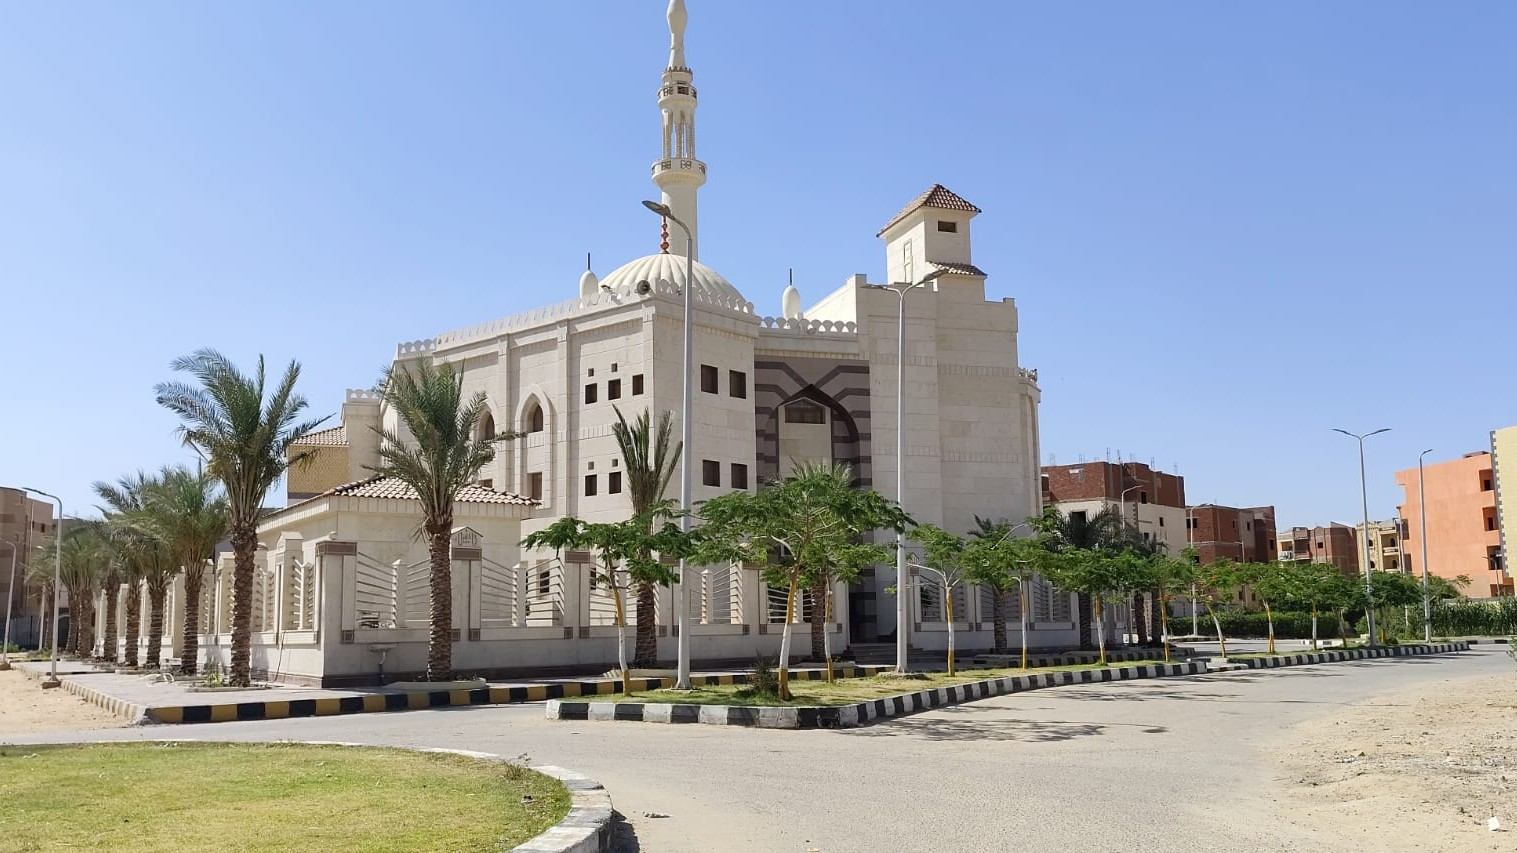
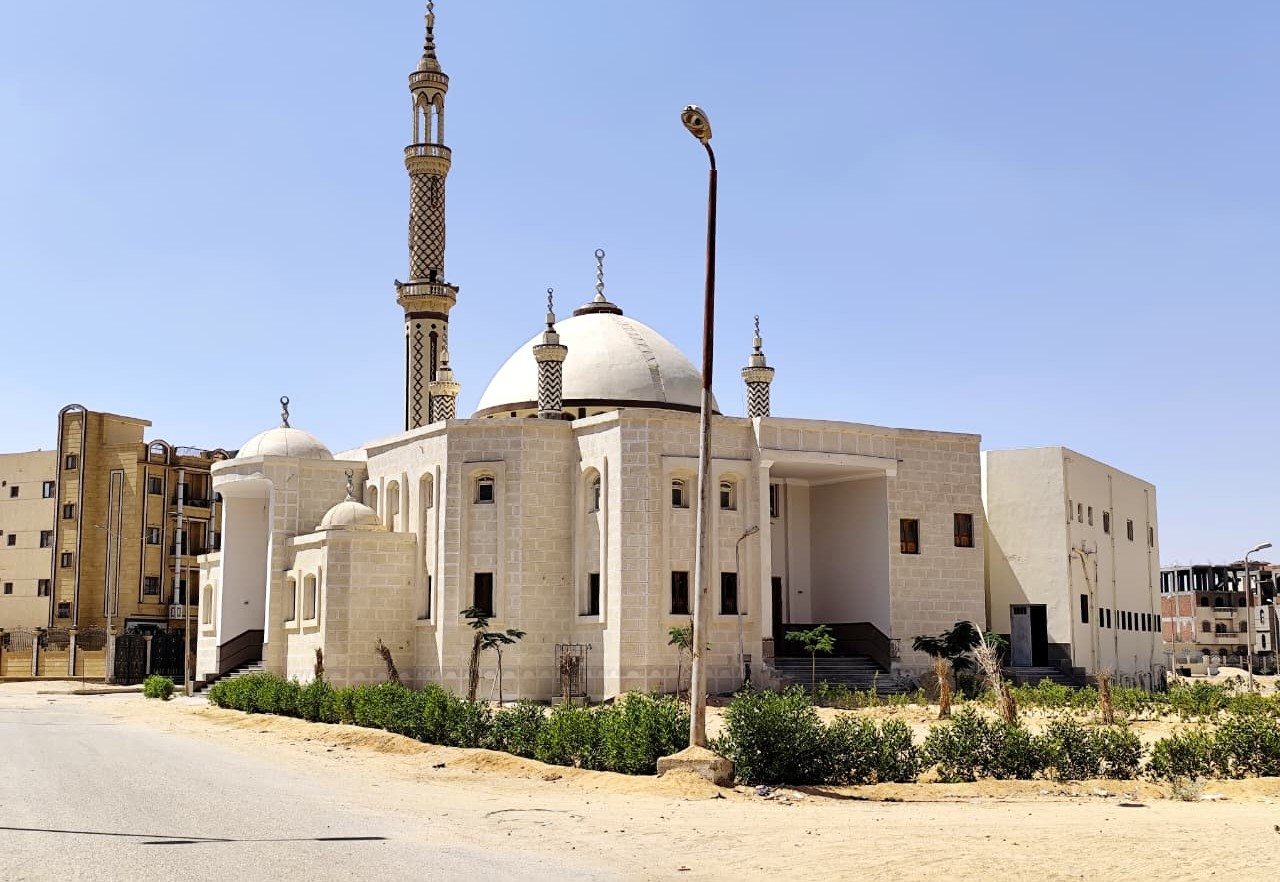
Update location details and map link for accuracy and clarity

diff --git a/index.html b/index.html
@@ -118,13 +118,13 @@
 
       <section class="chapter" data-chapter>
         <div class="chapter-card location-image-card">
-          <img src="masjid_elrahman.jpeg" alt="مسجد ليلة القدر" class="location-image" />
+          <img src="masjid_elrahman.jpeg" alt="مسجد الرحمن الرحيم" class="location-image" />
           <div class="location-overlay"></div>
           <div class="location-content">
             <span class="chapter-no">الفصل 04</span>
             <h2>العنوان</h2>
-            <p>مسجد الرحمن - مجاورة 85 العاشر من رمضان</p>
-            <a class="map-link" href="https://maps.app.goo.gl/TeoxsnTPkoXU8geK8" target="_blank" rel="noopener noreferrer">
+            <p>مسجد الرحمن الرحيم - مجاورة 84 العاشر من رمضان</p>
+            <a class="map-link" href="https://maps.app.goo.gl/iVKMFV266WtmXufc7" target="_blank" rel="noopener noreferrer">
               افتح اللوكيشن
             </a>
           </div>